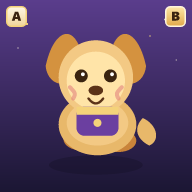
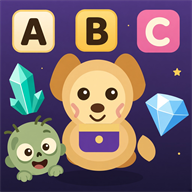
Hide the road behind the school, tighten poop hits, and give screens the same small back button as the walk menu.
Enlarge A, B and C plus the zombie on the home-screen icon, with crystal and diamond behind Alf, and pause speech around quoted words.

diff --git a/index.html b/index.html
@@ -34,7 +34,7 @@
       </section>
 
       <section id="skjerm-innstillinger" class="skjerm" hidden>
-        <button type="button" data-tilbake class="tekst tilbake-topp">Tilbake</button>
+        <button type="button" data-tilbake class="mini tilbake-topp">Tilbake</button>
         <h1>Innstillinger</h1>
         <p>Velg nivå for hele turen til skolen.</p>
         <div class="nivaa-grid">
@@ -65,15 +65,15 @@
       </section>
 
       <section id="skjerm-rekord" class="skjerm" hidden>
+        <button type="button" data-tilbake class="mini tilbake-topp">Tilbake</button>
         <h1>Rekord</h1>
         <p id="rekord-status" class="rekord">Ingen tur ennå. Alf venter!</p>
         <ol id="rekord-tavle" class="rekord-tavle"></ol>
         <p>De ti beste turene på denne telefonen. Bytt du nettleser eller sletter siden, er rekorden borte. Ingenting sendes vekk.</p>
-        <button type="button" data-tilbake class="tekst">Tilbake</button>
       </section>
 
       <section id="skjerm-om" class="skjerm" hidden>
-        <button type="button" data-tilbake class="tekst tilbake-topp">Tilbake</button>
+        <button type="button" data-tilbake class="mini tilbake-topp">Tilbake</button>
         <h1>Om appen</h1>
         <p>Alf er en hund som har forsovet seg. Han må rekke skolen for å kjøpe skolemelk. Langs veien øver dere på bokstaver, lyder, rim og små ord — slik 1. og 2. klasse gjør på skolen.</p>
         <p>Zombiene er tullete bokstavtyver. De er litt spennende, aldri skumle. Hvis du taper en duell, mister Alf noen steiner, men han kommer alltid frem.</p>
@@ -86,6 +86,7 @@
       </section>
 
       <section id="skjerm-installer" class="skjerm" hidden>
+        <button type="button" data-tilbake class="mini tilbake-topp">Tilbake</button>
         <h1>StoreAlfabet</h1>
         <h2>Hva dette er</h2>
         <p>StoreAlfabet er et bokstavspill for 1. og 2. klasse. Du hjelper hunden Alf til skolen, samler krystaller og diamanter, og øver på bokstaver langs veien.</p>
@@ -115,7 +116,6 @@
           <a class="sekundaer" data-apps href="https://reidarkind.github.io/myapps/" target="_blank" rel="noopener noreferrer">Andre apper jeg har laget</a>
           <a class="sekundaer" data-coffee href="https://buymeacoffee.com/reidarkind" target="_blank" rel="noopener noreferrer"><span class="btn-ico" aria-hidden="true">☕</span>Spander en kaffe</a>
         </nav>
-        <button type="button" data-tilbake class="tekst">Tilbake</button>
       </section>
 
       <section id="skjerm-spill" class="skjerm spill" hidden>
@@ -139,6 +139,7 @@
         <div id="sti-spill" hidden>
           <canvas id="sti-lerret" aria-hidden="true"></canvas>
           <div id="sti-skole-wrap">
+            <div id="sti-skole-skjul" aria-hidden="true"></div>
             <img id="sti-skole" alt="Skolen" />
             <span id="sti-skole-skilt">Skolen</span>
           </div>
@@ -241,7 +242,7 @@
           <h2 id="melk-tittel">Vanlig skolemelk</h2>
           <p id="melk-tekst"></p>
           <button type="button" id="ny-tur" class="hoved">En tur til</button>
-          <button type="button" data-tilbake class="tekst">Til menyen</button>
+          <button type="button" data-tilbake class="mini">Til menyen</button>
         </article>
       </section>
     </div>

diff --git a/src/spill/perspektiv.ts b/src/spill/perspektiv.ts
@@ -74,7 +74,7 @@ export function bakomBakke(z: number, tid: number): boolean {
   return false;
 }
 
-export function prosjektDist(x: number, dist: number, tid: number, skjulBakBakke = true): Prosjekt {
+export function prosjektDist(x: number, dist: number, tid: number, skjulBakBakke = true, etappe = 1): Prosjekt {
   const z = zFraDist(dist, tid);
   const vei = veiPunktDist(dist, tid);
   const t = perspektivT(z);
@@ -82,16 +82,21 @@ export function prosjektDist(x: number, dist: number, tid: number, skjulBakBakke
     left: vei.cx + (x - 0.5) * 2 * vei.halv,
     top: vei.cy,
     skala: 0.02 + t * 1.35,
-    synlig: z > veiEndeZ() && z < 1.18 && t > 0.008 && !(skjulBakBakke && bakomBakke(z, tid)),
+    synlig:
+      z > veiEndeZ() &&
+      z < 1.18 &&
+      t > 0.008 &&
+      !(skjulBakBakke && bakomBakke(z, tid)) &&
+      !bakomSkole(z, tid, etappe),
   };
 }
 
-export function prosjektPunkt(x: number, z: number, tid: number, skjulBakBakke = true): Prosjekt {
-  return prosjektDist(x, distFraZ(z, tid), tid, skjulBakBakke);
+export function prosjektPunkt(x: number, z: number, tid: number, skjulBakBakke = true, etappe = 1): Prosjekt {
+  return prosjektDist(x, distFraZ(z, tid), tid, skjulBakBakke, etappe);
 }
 
-export function prosjektDekor(side: -1 | 1, dist: number, tid: number): Prosjekt {
-  return prosjektDist(side < 0 ? -0.16 : 1.16, dist, tid);
+export function prosjektDekor(side: -1 | 1, dist: number, tid: number, etappe = 1): Prosjekt {
+  return prosjektDist(side < 0 ? -0.16 : 1.16, dist, tid, true, etappe);
 }
 
 export function turFramgang(tid: number, etappe = 1, antallStopp = 6): number {
@@ -99,11 +104,20 @@ export function turFramgang(tid: number, etappe = 1, antallStopp = 6): number {
   return klem((etappe - 1 + iEtappe) / Math.max(1, antallStopp));
 }
 
+export function skoleZ(tid: number, etappe = 1, antallStopp = 6): number {
+  const fram = turFramgang(tid, etappe, antallStopp);
+  const t = fram ** 1.05;
+  return veiEndeZ() + (0.84 - veiEndeZ()) * t;
+}
+
+export function bakomSkole(z: number, tid: number, etappe = 1, antallStopp = 6): boolean {
+  return z < skoleZ(tid, etappe, antallStopp) - 0.015;
+}
+
 export function skolePunkt(tid: number, etappe = 1, antallStopp = 6): Prosjekt {
   const fram = turFramgang(tid, etappe, antallStopp);
   const t = fram ** 1.05;
-  const z = veiEndeZ() + (0.84 - veiEndeZ()) * t;
-  const vei = veiPunkt(z, tid);
+  const vei = veiPunkt(skoleZ(tid, etappe, antallStopp), tid);
   return {
     left: vei.cx,
     top: vei.cy,

diff --git a/src/main.ts b/src/main.ts
@@ -28,7 +28,7 @@ import {
   startTur,
   turKanFortsette,
 } from "./spill/tur";
-import { prosjektDekor, prosjektDist, prosjektPunkt, skolePunkt, turFramgang, veiAvstand, veiEndeZ, veiPunkt, zFraDist } from "./spill/perspektiv";
+import { prosjektDekor, prosjektDist, prosjektPunkt, skolePunkt, skoleZ, turFramgang, veiAvstand, veiPunkt, zFraDist } from "./spill/perspektiv";
 import { flyttX, fortsettEtterZombie, settX, startSti, stiTick, trafikkBilde, xFraSkjerm, type StiHendelse, type StiTilstand } from "./spill/sti";
 import { SvarVakt } from "./spill/svar-vakt";
 import { lastAlfStemme, onAlfStemmeStatus, type AlfStemmeStatus } from "./tale/alf-stemme";
@@ -881,7 +881,8 @@ function tegnVeiLerret(tilstand: StiTilstand): void {
   const ctx = canvas.getContext("2d");
   if (!ctx) return;
   ctx.setTransform(dpr, 0, 0, dpr, 0, 0);
-  const hor = veiPunkt(veiEndeZ(), tilstand.tid);
+  const etappe = tur?.stopp ?? 1;
+  const hor = veiPunkt(skoleZ(tilstand.tid, etappe), tilstand.tid);
   const hy = (hor.cy / 100) * h;
   const himmel = ctx.createLinearGradient(0, 0, 0, Math.max(8, hy));
   himmel.addColorStop(0, "#7eb6d9");
@@ -897,7 +898,7 @@ function tegnVeiLerret(tilstand: StiTilstand): void {
   ctx.fillRect(0, hy, w, Math.max(1, h - hy));
   const n = 58;
   const fase = veiAvstand(tilstand.tid);
-  const ende = veiEndeZ();
+  const ende = skoleZ(tilstand.tid, etappe);
   for (let i = 0; i < n; i++) {
     const z0 = ende + (i / n) * (1 - ende);
     const z1 = ende + ((i + 1) / n) * (1 - ende);
@@ -975,7 +976,7 @@ function tegnSti(tilstand: StiTilstand): void {
   const lag = $("sti-lag");
   const levende = new Set<string>();
   for (const objekt of tilstand.dekor) {
-    const p = prosjektDekor(objekt.side, objekt.dist, tilstand.tid);
+    const p = prosjektDekor(objekt.side, objekt.dist, tilstand.tid, tur?.stopp ?? 1);
     oppdaterStiTing(
       lag,
       `sti-dekor-${objekt.id}`,
@@ -991,7 +992,7 @@ function tegnSti(tilstand: StiTilstand): void {
     );
   }
   for (const objekt of tilstand.objekter) {
-    const p = prosjektDist(objekt.x, objekt.dist, tilstand.tid, false);
+    const p = prosjektDist(objekt.x, objekt.dist, tilstand.tid, false, tur?.stopp ?? 1);
     const fil =
       objekt.type === "syklist" || objekt.type === "bil"
         ? trafikkBilde(objekt.type, objekt.retning ?? "mot")

diff --git a/src/spill/perspektiv.test.ts b/src/spill/perspektiv.test.ts
@@ -1,5 +1,5 @@
 import { describe, expect, it } from "vitest";
-import { bakomBakke, prosjektDist, prosjektPunkt, skolePunkt, veiAvstand, veiEndeZ, veiPunkt, veiPunktDist, veiSvingVed, zFraDist } from "./perspektiv";
+import { bakomBakke, bakomSkole, prosjektDist, prosjektPunkt, skolePunkt, skoleZ, veiAvstand, veiEndeZ, veiPunkt, veiPunktDist, veiSvingVed, zFraDist } from "./perspektiv";
 
 describe("perspektiv", () => {
   it("legger stein på veien ved forsvinningspunktet, ikke i himmelen", () => {
@@ -70,6 +70,14 @@ describe("perspektiv", () => {
     expect(veiEndeZ()).toBeGreaterThan(0.03);
     expect(Math.abs(ende.cy - tidlig.top)).toBeLessThan(8);
     expect(prosjektPunkt(0.5, 0.01, 20).synlig).toBe(false);
+  });
+
+  it("skjuler veiting bak skolen når Alf er nær", () => {
+    expect(bakomSkole(0.1, 0, 6)).toBe(true);
+    expect(bakomSkole(0.92, 0, 6)).toBe(false);
+    expect(prosjektPunkt(0.5, 0.12, 0, true, 6).synlig).toBe(false);
+    expect(prosjektPunkt(0.5, 0.92, 0, true, 6).synlig).toBe(true);
+    expect(skoleZ(0, 6)).toBeGreaterThan(skoleZ(40, 1));
   });
 
   it("lar veiting synes i det fjerne selv om en bakke er foran", () => {

diff --git a/src/style.skjerm.test.ts b/src/style.skjerm.test.ts
@@ -18,6 +18,23 @@ describe("skjerm-synlighet", () => {
     expect(css).toMatch(/\.spill\.tegn-modus\s+\.tegn-knapper\s*\{[^}]*flex:\s*0\s+0\s+auto/);
   });
 
+  it("dekker veien bak skolen", () => {
+    const css = readFileSync(new URL("./style.css", import.meta.url), "utf8");
+    expect(css).toMatch(/#sti-skole-skjul\s*\{[^}]*position:\s*absolute/);
+    expect(css).toMatch(/#sti-skole-wrap\s*\{[^}]*z-index:\s*8/);
+  });
+
+  it("har store ABC-klosser, zombie og steiner i app-ikonet", () => {
+    const svg = readFileSync(new URL("../public/ikon.svg", import.meta.url), "utf8");
+    expect(svg).toContain(">A</text>");
+    expect(svg).toContain(">B</text>");
+    expect(svg).toContain(">C</text>");
+    expect(svg).toMatch(/width="118"/);
+    expect(svg).toContain("#7c9a5c");
+    expect(svg).toContain("#2ec4b6");
+    expect(svg).toContain("#d9f4ff");
+  });
+
   it("dekker veien med startskjerm under 3-2-1", () => {
     const css = readFileSync(new URL("./style.css", import.meta.url), "utf8");
     expect(css).toMatch(/#sti-start\s*\{[^}]*position:\s*absolute/);

diff --git a/src/style.css b/src/style.css
@@ -94,7 +94,6 @@ body {
 
 .tilbake-topp {
   align-self: flex-start;
-  padding: 0.2rem 0;
   margin: 0;
 }
 
@@ -347,7 +346,7 @@ button {
   position: absolute;
   top: 22%;
   left: 50%;
-  z-index: 2;
+  z-index: 8;
   display: flex;
   flex-direction: column;
   align-items: center;
@@ -355,6 +354,18 @@ button {
   transform-origin: center bottom;
   pointer-events: none;
   filter: drop-shadow(0 4px 0 #2a184055);
+}
+
+#sti-skole-skjul {
+  position: absolute;
+  left: 50%;
+  bottom: -0.35rem;
+  width: 240%;
+  height: 78%;
+  transform: translateX(-50%);
+  border-radius: 46% 46% 28% 28%;
+  background: linear-gradient(#8a4034 0 34%, #4a8f44 34% 100%);
+  z-index: -1;
 }
 
 #sti-skole-wrap[hidden] {
@@ -585,8 +596,8 @@ button {
 }
 
 .sti-ting.baesj {
-  width: 2.2rem;
-  height: 1.6rem;
+  width: 1.55rem;
+  height: 1.15rem;
 }
 
 .sti-ting.hus {

diff --git a/src/tale/tale.test.ts b/src/tale/tale.test.ts
@@ -84,10 +84,10 @@ describe("stemmevalg", () => {
     expect(lesOppgave({ prompt: "Trekk sammen: lll – eee – rrr", tale: "l. e. r." })).not.toMatch(/lll|eee|rrr/i);
   });
 
-  it("tar en tenkepause før det siterte ordet", () => {
+  it("tar en tenkepause og trykk rundt det siterte ordet", () => {
     const ut = forberedUttale("Hvilken bokstav slutter «de» på?");
-    expect(ut).toMatch(/slutter\s+\.{3}\s+de\s+\.{3}\s+på/);
+    expect(ut).toMatch(/slutter\s+–\s+de\s+–\s+på/);
     expect(ut).not.toContain("«");
-    expect(lesOppgave({ prompt: "Hvilken bokstav slutter «de» på?", tale: "de" })).toMatch(/\.{3}\s+de/);
+    expect(lesOppgave({ prompt: "Hvilken bokstav slutter «de» på?", tale: "de" })).toMatch(/–\s+de\s+–/);
   });
 });

diff --git a/src/spill/sti.ts b/src/spill/sti.ts
@@ -2,6 +2,7 @@ import { distFraZ, prosjektPunkt, veiEndeZ, veiPunkt, zFraDist } from "./perspek
 
 export const STI_SEKUNDER = 40;
 export const PLUKK_AVSTAND = 0.18;
+export const BAESJ_AVSTAND = 0.07;
 export const ZOMBIE_AVSTAND = 0.13;
 export const MAX_ZOMBIE_PER_STI = 1;
 export const MAX_BAESJ_PER_STI = 2;
@@ -256,7 +257,8 @@ function nyTrafikk(id: number, type: TrafikkType, tid: number, tilfeldig: () => 
 }
 
 function treffer(alfX: number, objekt: StiObjekt): boolean {
-  const avstand = objekt.type === "zombie" ? ZOMBIE_AVSTAND : PLUKK_AVSTAND;
+  const avstand =
+    objekt.type === "zombie" ? ZOMBIE_AVSTAND : objekt.type === "baesj" ? BAESJ_AVSTAND : PLUKK_AVSTAND;
   return Math.abs(alfX - objekt.x) <= avstand;
 }
 

diff --git a/src/spill/sti.test.ts b/src/spill/sti.test.ts
@@ -110,6 +110,19 @@ describe("sti", () => {
     expect(hendelser[0]?.tekst).toMatch(/bæsj/i);
   });
 
+  it("treffer ikke bæsj når Alf bare er i nærheten", () => {
+    const t = settX(
+      {
+        ...startSti(),
+        objekter: [nær(0.62, "baesj")],
+      },
+      0.5,
+    );
+    const { tilstand, hendelser } = stiTick(t, 0.01, () => 0.99);
+    expect(tilstand.baesj).toBe(0);
+    expect(hendelser).toEqual([]);
+  });
+
   it("advarer mot hundebæsj med ulike tekster", () => {
     const tekster = new Set([0, 0.2, 0.4, 0.6, 0.8].map((n) => baesjHint(() => n)));
     expect(tekster.has("Ikke ta på hundebæsj!")).toBe(true);

diff --git a/src/tale/tale.ts b/src/tale/tale.ts
@@ -139,7 +139,7 @@ const UTTALE: [RegExp, string][] = [
 
 export function forberedUttale(tekst: string): string {
   const enLyd = tekst.replace(/([a-zæøå])\1{2,}/gi, "$1");
-  const medPause = enLyd.replace(/«([^»]+)»/g, " ... $1 ... ");
+  const medPause = enLyd.replace(/«([^»]+)»/g, " – $1 – ");
   return UTTALE.reduce((ut, [fra, til]) => ut.replace(fra, til), medPause);
 }
 
